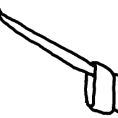
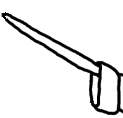
adding disabled brush style

Changed region(s): [[0.0, 0.0508, 0.9915, 0.9915]]

diff --git a/src/App.vue b/src/App.vue
@@ -3,9 +3,9 @@
 
     <div ref="cap" id="cap" />
     <div ref="brush" id="brush">
-      <canvas width="26" height="19" ref="tip" style="left: 0px; position: absolute; z-index:9994;"/>
-      <img ref="tipBG" style="left: 0px; position: absolute;z-index: 9993;" src="./assets/tip.png" id="tip" />
-      <img src="./assets/brush.png" style="left: 25px; position: absolute;" />
+      <canvas :class="{disabled: !color}" v-show="color" width="26" height="19" ref="tip" style="left: 0px; position: absolute; z-index:9994;"/>
+      <img :class="{disabled: !color}" ref="tipBG" style="left: 0px; position: absolute;z-index: 9993;" src="./assets/tip.png" id="tip" />
+      <img src="./assets/brush.png" style="left: 20px; position: absolute;" />
       <div id="sleeve" />
     </div>
 
@@ -459,5 +459,8 @@ html, body{
           color:#F00;
           margin-top: 5px;
           font-size: 40px;
+        }
+        .disabled{
+          opacity: .2;
         }
 </style>
